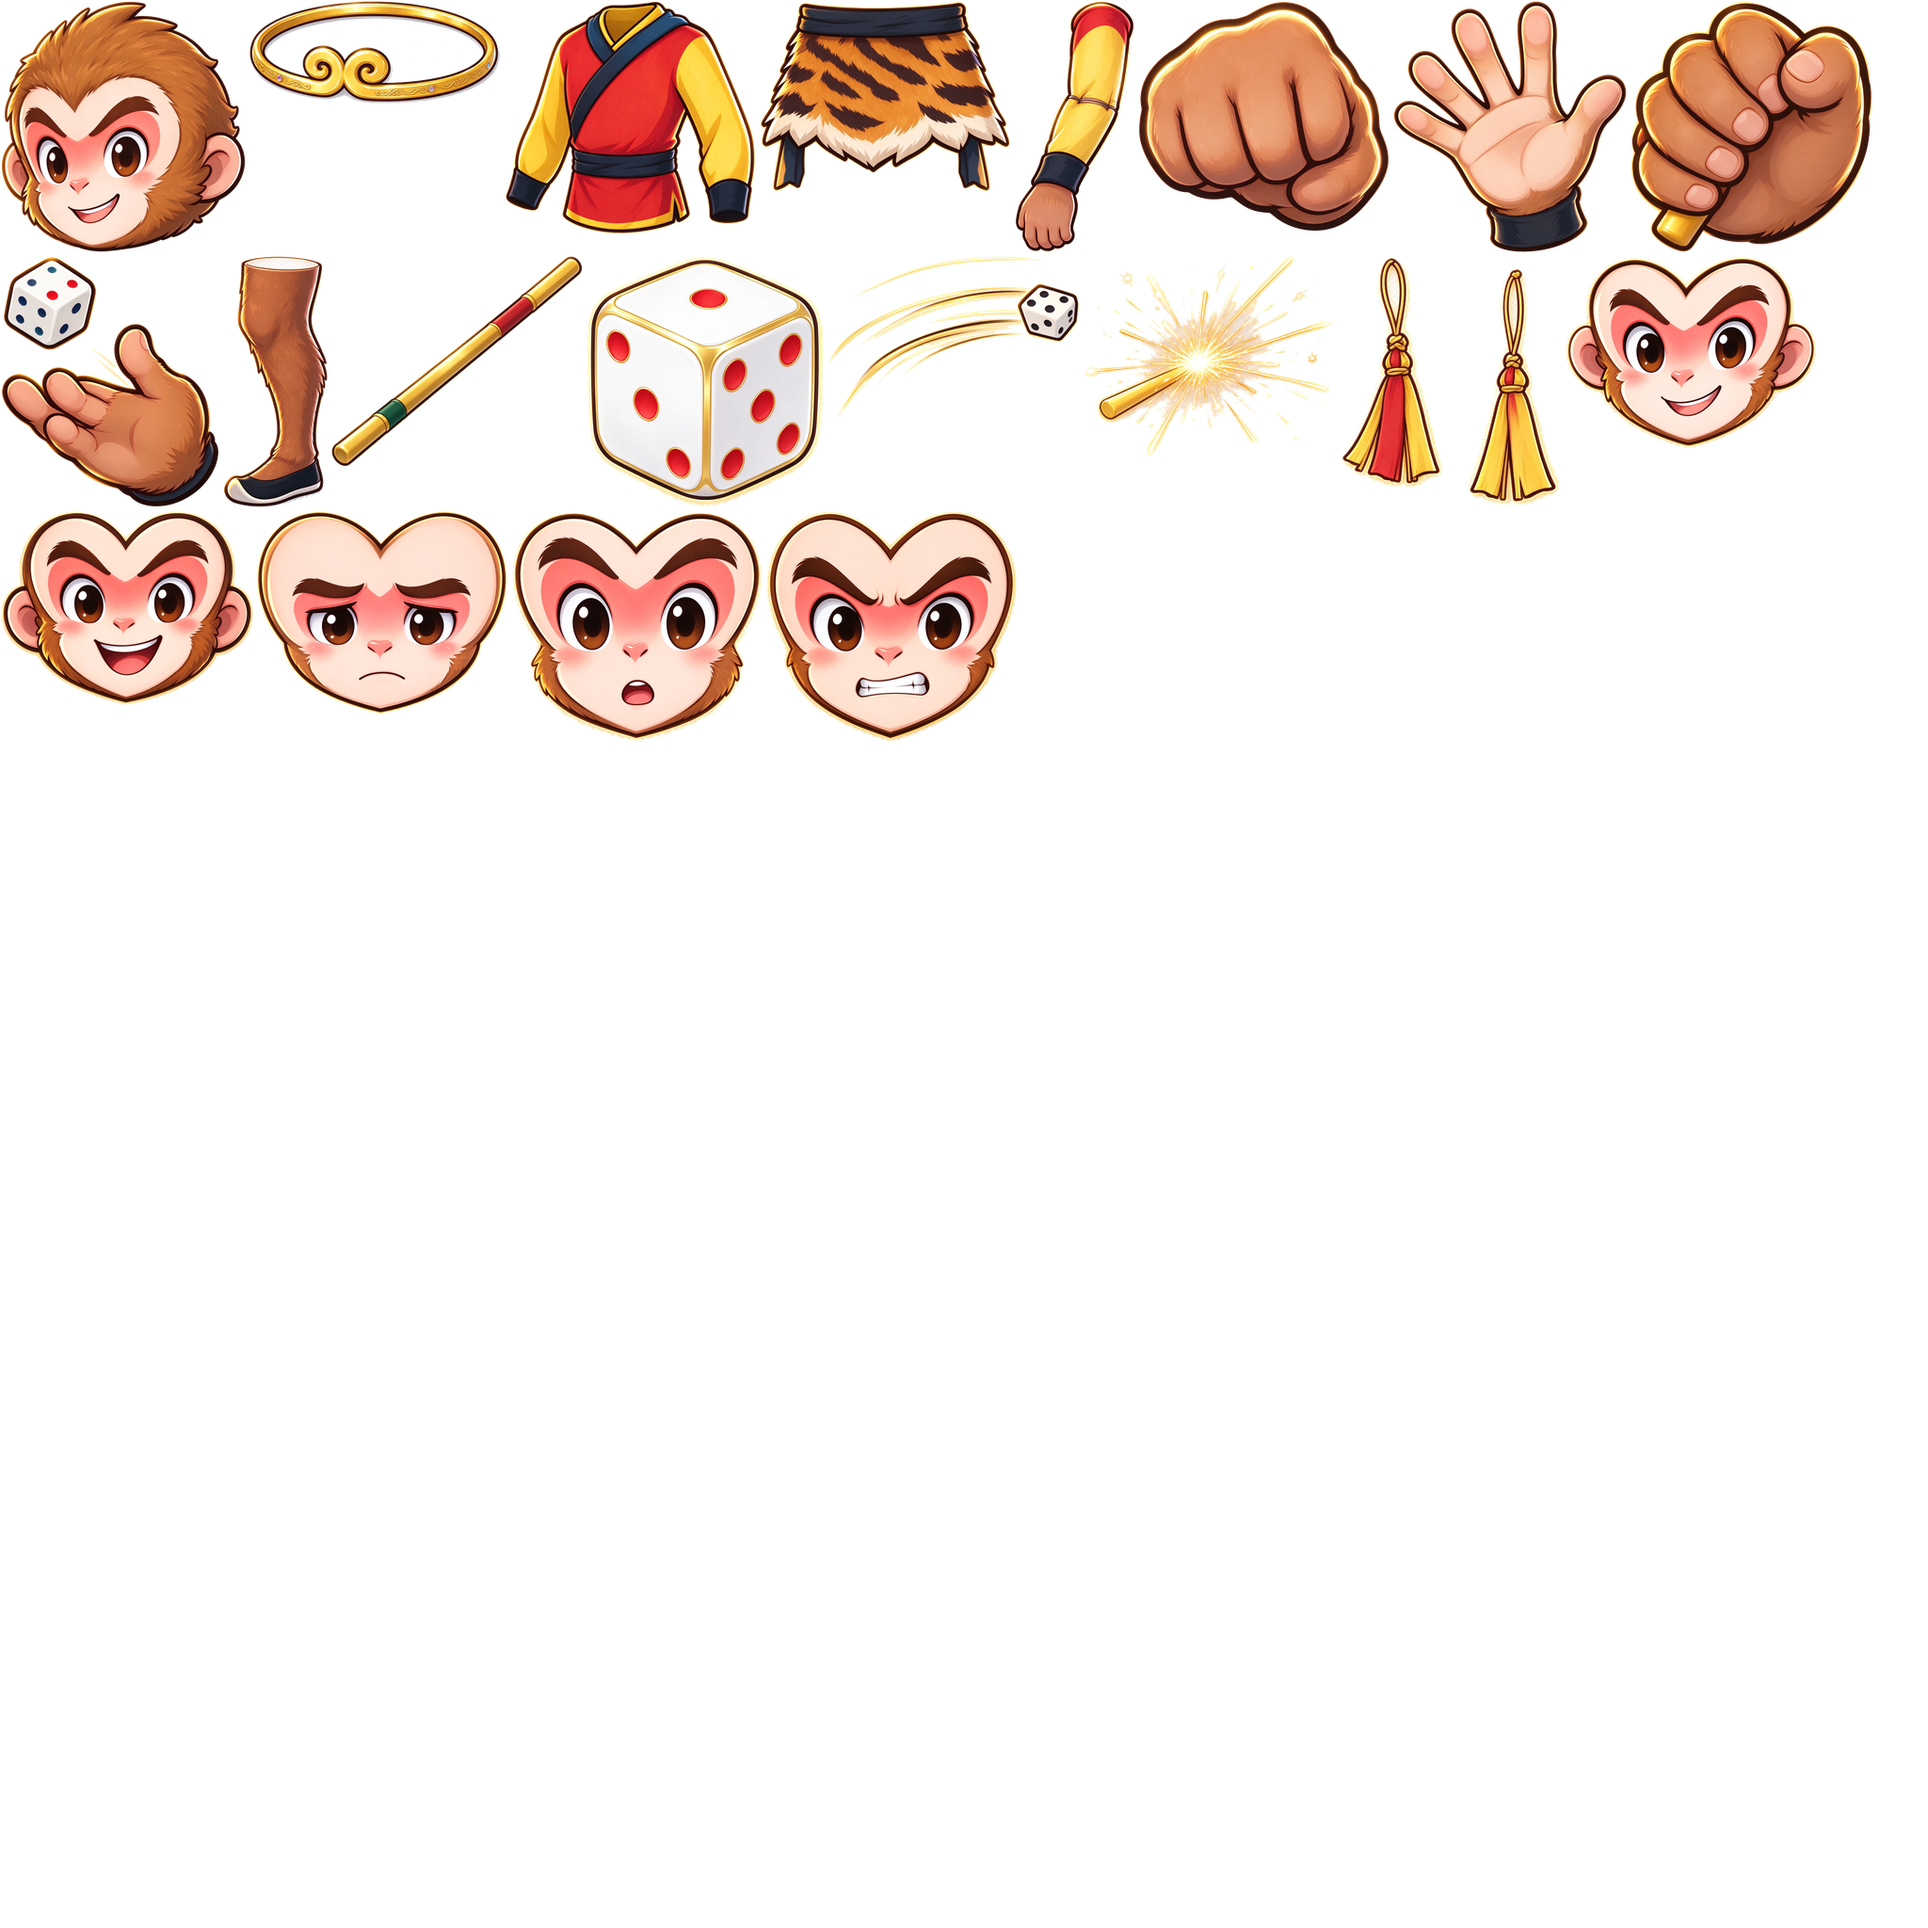
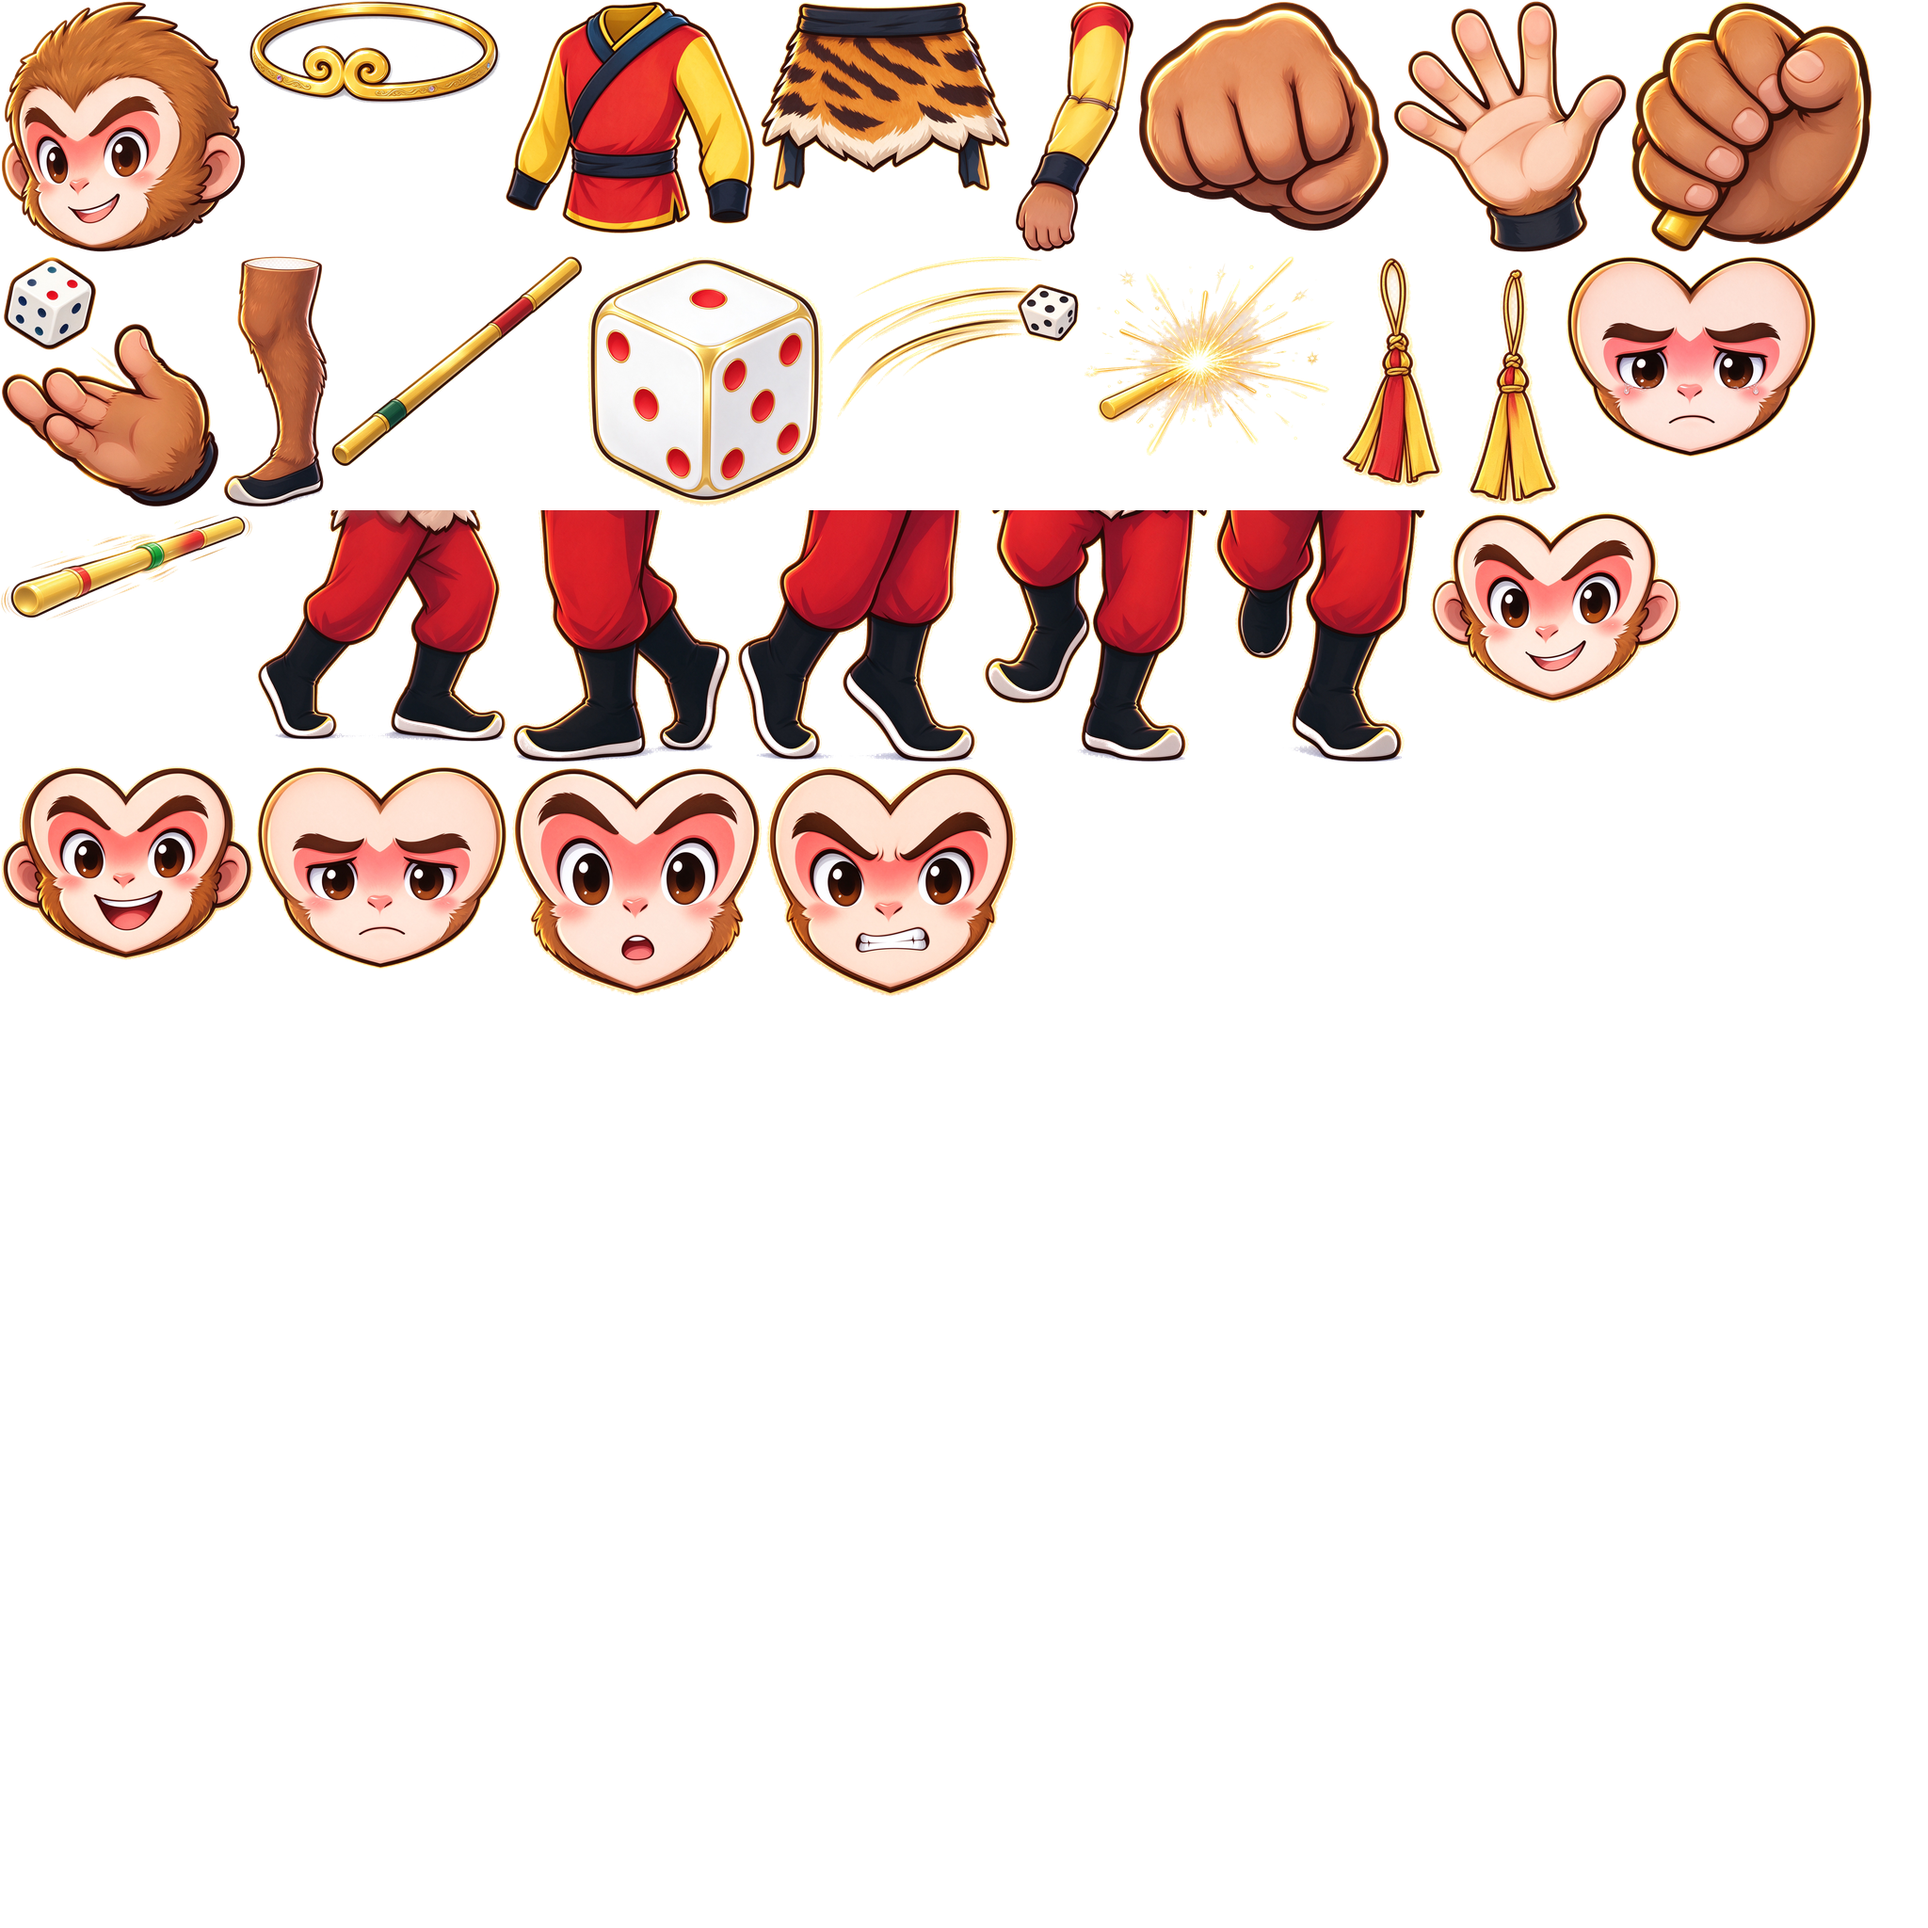
feat(mono-spine): 悟空骨骼 v3 升级——红裤腿/踮脚/耍棒/委屈脸
- 新部件入库 (39)~(45)：委屈脸、透视耍棒帧、红裤腿 5 帧（行走/迈步/踮脚x2/高抬腿）
- 新增 face 叠加槽：face_sulk 独立 attachment 盖在 head 之上、金箍之下，
  修复替换 head 槽导致的毛发丢失/金箍漂移；idle_sad 低头+委屈脸
- walk 改红裤腿帧循环（walk_a/run/walk_b/run），idle_happy 蹦跳换踮脚腿
- 新增 spin 耍棒动画：weapon 720° 旋转 + staff_spin 透视帧切换
- process_parts HOLE_FIX 扩展红裤腿系围空清理；shoot_frames 参数化连拍
- 6 动画截图全通过（手机视口 390x844 dpr2）

Changed region(s): [[0.0, 0.125, 0.9688, 0.5312]]

diff --git a/monopoly/tools/spine-build/test.html b/monopoly/tools/spine-build/test.html
@@ -55,7 +55,7 @@ if (qs.get('debug') === 'tex') {
   const skel = new Spine({ skeletonData });
   skel.position.set(195, 620);
   skel.scale.set(0.9);
-  const entry = skel.state.setAnimation(0, anim, anim.startsWith('idle') || anim === 'walk');
+  const entry = skel.state.setAnimation(0, anim, anim !== 'throw_dice'); // 除掷骰外全部循环
   entry.trackTime = anim === 'throw_dice' ? 0.5 : 0.3; // 截取动作中段
   app.stage.addChild(skel);
   window.__skel = skel;

diff --git a/monopoly/tools/spine-build/build_wukong.py b/monopoly/tools/spine-build/build_wukong.py
@@ -32,6 +32,14 @@ PICK = {
     "生成骨架动画与游戏人物设计开发 (36)": "dice_swish",
     "生成骨架动画与游戏人物设计开发 (35)": "burst",
     "生成骨架动画与游戏人物设计开发 (12)": "tassel",
+    # —— 第二批补充（v3）——
+    "生成骨架动画与游戏人物设计开发 (39)": "face_sulk",   # 委屈脸（独立叠加槽）
+    "生成骨架动画与游戏人物设计开发 (40)": "staff_spin",  # 耍棒旋转透视帧
+    "生成骨架动画与游戏人物设计开发 (41)": "legs_walk_a", # 红裤腿·行走
+    "生成骨架动画与游戏人物设计开发 (42)": "legs_walk_b", # 红裤腿·迈步交叉
+    "生成骨架动画与游戏人物设计开发 (43)": "legs_tiptoe", # 红裤腿·踮脚
+    "生成骨架动画与游戏人物设计开发 (44)": "legs_tiptoe2",# 红裤腿·踮脚高
+    "生成骨架动画与游戏人物设计开发 (45)": "legs_run",    # 红裤腿·高抬腿
 }
 FACES = {  # 备用表情（head slot 内切换；默认不显示）
     "生成骨架动画与游戏人物设计开发 (21)": "face_calm",
@@ -41,6 +49,20 @@ FACES = {  # 备用表情（head slot 内切换；默认不显示）
     "生成骨架动画与游戏人物设计开发 (25)": "face_angry",
 }
 SEM_OF = {v: k for k, v in PICK.items()}  # 语义名 → stem
+SEM_OF.update({v: k for k, v in FACES.items()})
+
+# bbox 中心定位部件：语义名 → (bone, off_x, off_y)
+# 用于整腿/表情/旋转棒等「图中心即锚点」的部件；offset 相对骨骼原点（y 向上）
+# face_sulk 是叠脸槽：中心对准原头图的脸区（头图中心在 head 骨 y-18，脸区再往下 ~25）
+CENTER_PLACEMENT = {
+    "legs_walk_a":  ("hips", 0, -130),
+    "legs_walk_b":  ("hips", 0, -130),
+    "legs_tiptoe":  ("hips", 0, -138),
+    "legs_tiptoe2": ("hips", 0, -146),
+    "legs_run":     ("hips", 0, -138),
+    "face_sulk":    ("head", 0, 68),
+    "staff_spin":   ("weapon", 0, 0),
+}
 
 # ---------------- 1. Atlas 打包 ----------------
 def pack_atlas():
@@ -130,10 +152,14 @@ PLACEMENT = {
     "burst":     ("fx",      320, 320, 0, 0),
 }
 # 附件额外缩放（region 自动拉伸映射，骰子/特效不应与躯干同大）
-SIZE_SCALE = {"dice": 0.42, "burst": 0.8, "dice_swish": 0.8, "headband": 0.85}
+SIZE_SCALE = {"dice": 0.42, "burst": 0.8, "dice_swish": 0.8, "headband": 0.85,
+              "staff_spin": 0.8, "face_sulk": 0.6,
+              "legs_walk_a": 0.75, "legs_walk_b": 0.75, "legs_tiptoe": 0.75,
+              "legs_tiptoe2": 0.75, "legs_run": 0.75}
 # slot: (bone, [attachment 语义名...], default_attachment 或 None)
 SLOTS = [
     ("fx",       ["burst", "dice_swish"],        None),
+    ("legs",     ["legs_walk_a", "legs_walk_b", "legs_tiptoe", "legs_tiptoe2", "legs_run"], None),
     ("leg_l",    ["leg"],                        "leg"),
     ("leg_r",    ["leg"],                        "leg"),
     ("skirt",    ["skirt"],                      "skirt"),
@@ -143,14 +169,27 @@ SLOTS = [
     ("hand_l",   ["hand_fist", "hand_open"],     None),   # arm 图自带手，变体留给动画切换
     ("arm_r",    ["arm"],                        "arm"),
     ("hand_r",   ["hand_fist", "hand_grip", "hand_dice"], None),
-    ("weapon",   ["staff"],                      "staff"),
+    ("weapon",   ["staff", "staff_spin"],        "staff"),
     ("head",     ["head"] + list(FACES.values()), "head"),
+    ("face",     ["face_sulk"],                  None),   # 叠脸槽：盖在头上、金箍之下
     ("headband", ["headband"],                   "headband"),
     ("prop",     ["dice"],                       None),
 ]
 
 
 def make_attachment(sem, extra=(0, 0)):
+    if sem in CENTER_PLACEMENT:
+        bone, ox, oy = CENTER_PLACEMENT[sem]
+        img = Image.open(PARTS / f"{SEM_OF[sem]}.png")
+        s = SIZE_SCALE.get(sem, 1)
+        w, h = img.size[0] * SCALE * s, img.size[1] * SCALE * s
+        # bbox 中心即锚点：图中心贴骨坐标 (ox, oy)（y 向上）
+        return {
+            "x": round(ox, 2),
+            "y": round(oy, 2),
+            "width": round(w, 2),
+            "height": round(h, 2),
+        }
     bone, pu, pv, ox, oy = PLACEMENT[sem]
     img = Image.open(PARTS / f"{SEM_OF[sem]}.png")
     s = SIZE_SCALE.get(sem, 1)
@@ -176,25 +215,30 @@ def build_skeleton():
         b.update(extra)
         bones.append(b)
 
+    def bone_of(sem):
+        if sem in CENTER_PLACEMENT:
+            return CENTER_PLACEMENT[sem][0]
+        return PLACEMENT[sem][0]
+
     slots, skin = [], {}
     SLOT_BONES = {"leg_r": "leg_r", "arm_r": "arm_r", "hand_r": "hand_r"}  # 镜像槽位显式指定
     for slot_name, atts, default in SLOTS:
-        bone = SLOT_BONES.get(slot_name) or PLACEMENT[default or atts[0]][0]
+        bone = SLOT_BONES.get(slot_name) or bone_of(default or atts[0])
         slots.append({"name": slot_name, "bone": bone, "attachment": default})
         entries = {}
         for sem in atts:
             if slot_name == "head" and sem in FACES.values():
-                continue  # 表情占位稍后复用 head 几何
+                continue  # 表情走下方统一复用 head 几何
             a = make_attachment(sem)
             if sem != atts[0]:
                 a["path"] = sem  # 多附件 slot：attachment 名=语义名，region 复用同 path
             entries[sem] = a
-        if slot_name == "head":  # 备用表情：占位复用 head 几何，仅运行时切换用
+        if slot_name == "head":  # 备用表情：同构图复用 head 几何，region 换 path
             for fname in FACES.values():
                 entries[fname] = dict(entries["head"], path=fname)
         skin[slot_name] = entries
     return {
-        "skeleton": {"spine": "4.2.43", "hash": "zhao-wukong-2",
+        "skeleton": {"spine": "4.2.43", "hash": "zhao-wukong-3",
                      "x": -430, "y": -50, "width": 860, "height": 800},
         "bones": bones,
         "slots": slots,
@@ -228,28 +272,43 @@ def build_animations(anims):
     rot("idle_calm", "arm_l", [(0, 0), (1.0, 1.6), (2.0, 0)])
     rot("idle_calm", "arm_r", [(0, 0), (1.0, -1.6), (2.0, 0)])
 
-    # --- idle_happy：双臂高举挥舞 + 蹦跳（1.2s loop）---
+    # --- idle_happy：双臂高举挥舞 + 踮脚蹦跳（1.2s loop）---
     T = 1.2
     rot("idle_happy", "arm_l", [(0, -160), (T/2, -190), (T, -160)])
     rot("idle_happy", "arm_r", [(0, 160), (T/2, 190), (T, 160)])
     rot("idle_happy", "head", [(0, -6), (T/2, 6), (T, -6)])
     tra("idle_happy", "hips", [(0, 0, 0), (T/4, 0, 46), (T/2, 0, 0),
                                (3*T/4, 0, 46), (T, 0, 0)])
+    # 蹦跳换踮脚整腿（隐藏单腿，落地姿态交给整腿图）
+    att("idle_happy", "legs", [(0, "legs_tiptoe"), (T/4, "legs_tiptoe2"),
+                               (T/2, "legs_tiptoe"), (3*T/4, "legs_tiptoe2"), (T, "legs_tiptoe")])
+    att("idle_happy", "leg_l", [(0, None)])
+    att("idle_happy", "leg_r", [(0, None)])
 
-    # --- idle_sad：低头塌肩下沉（2s loop）---
+    # --- idle_sad：低头塌肩下沉 + 委屈脸（2s loop）---
     rot("idle_sad", "head", [(0, 14), (1.0, 17), (2.0, 14)])
     rot("idle_sad", "arm_l", [(0, 14), (1.0, 18), (2.0, 14)])
     rot("idle_sad", "arm_r", [(0, -14), (1.0, -18), (2.0, -14)])
     tra("idle_sad", "chest", [(0, 0, 0), (1.0, 0, -6), (2.0, 0, 0)])
     tra("idle_sad", "hips", [(0, 0, 0), (1.0, 0, -8), (2.0, 0, 0)])
+    att("idle_sad", "face", [(0, "face_sulk")])
 
-    # --- walk：腿摆臂反摆 + 起伏（0.8s loop）---
+    # --- walk：整腿帧循环 + 摆臂起伏（0.8s loop，红裤黑靴腿系）---
     T = 0.8
-    rot("walk", "leg_l", [(0, 24), (T/4, 0), (T/2, -24), (3*T/4, 0), (T, 24)])
-    rot("walk", "leg_r", [(0, -24), (T/4, 0), (T/2, 24), (3*T/4, 0), (T, -24)])
+    att("walk", "legs", [(0, "legs_walk_a"), (T/4, "legs_run"),
+                         (T/2, "legs_walk_b"), (3*T/4, "legs_run"), (T, "legs_walk_a")])
+    att("walk", "leg_l", [(0, None)])
+    att("walk", "leg_r", [(0, None)])
     rot("walk", "arm_l", [(0, -26), (T/4, 0), (T/2, 26), (3*T/4, 0), (T, -26)])
     rot("walk", "arm_r", [(0, 26), (T/4, 0), (T/2, -26), (3*T/4, 0), (T, 26)])
     tra("walk", "hips", [(0, 0, 0), (T/4, 0, 12), (T/2, 0, 0), (3*T/4, 0, 12), (T, 0, 0)])
+
+    # --- spin：耍棒花（1.5s loop）---
+    rot("spin", "weapon", [(0, 0), (0.2, 0), (0.95, 720), (1.1, 720), (1.5, 0)])
+    att("spin", "weapon", [(0, "staff"), (0.2, "staff_spin"), (1.0, "staff")])
+    rot("spin", "arm_r", [(0, 0), (0.2, -20), (0.6, -35), (1.0, -10), (1.5, 0)])
+    rot("spin", "head", [(0, 0), (0.6, 5), (1.5, 0)])
+    tra("spin", "chest", [(0, 0, 0), (0.6, 0, 3), (1.5, 0, 0)])
 
     # --- throw_dice：举骰→甩出→骰子飞出（1.2s once）---
     rot("throw_dice", "arm_r", [(0, 30), (0.35, 150), (0.5, 150), (0.72, -40), (1.2, -40)])

diff --git a/monopoly/tools/spine-build/process_parts.py b/monopoly/tools/spine-build/process_parts.py
@@ -20,6 +20,12 @@ HOLE_FIX = {
     "生成骨架动画与游戏人物设计开发 (18)",
     "生成骨架动画与游戏人物设计开发 (19)",
     "生成骨架动画与游戏人物设计开发 (20)",
+    # 红裤黑靴腿系（双腿之间围空）
+    "生成骨架动画与游戏人物设计开发 (41)",
+    "生成骨架动画与游戏人物设计开发 (42)",
+    "生成骨架动画与游戏人物设计开发 (43)",
+    "生成骨架动画与游戏人物设计开发 (44)",
+    "生成骨架动画与游戏人物设计开发 (45)",
 }
 
 
